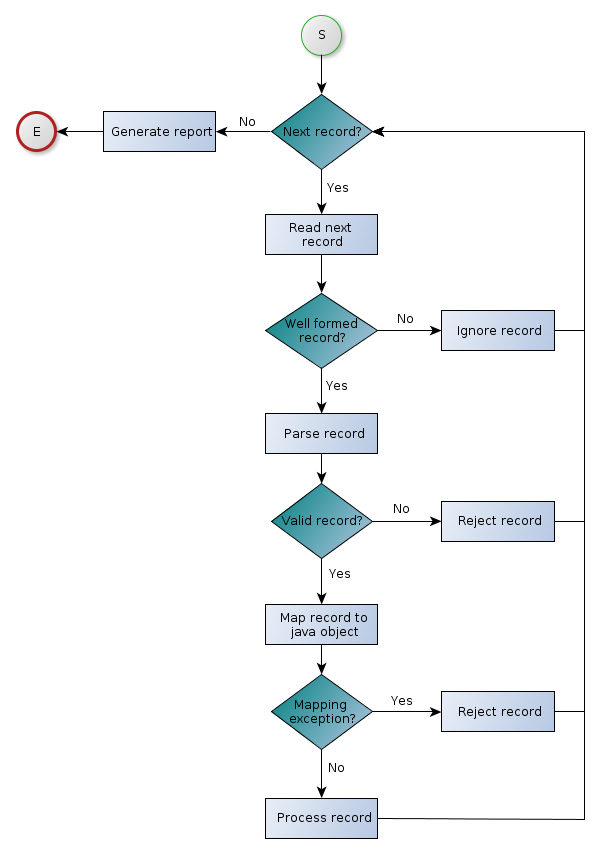
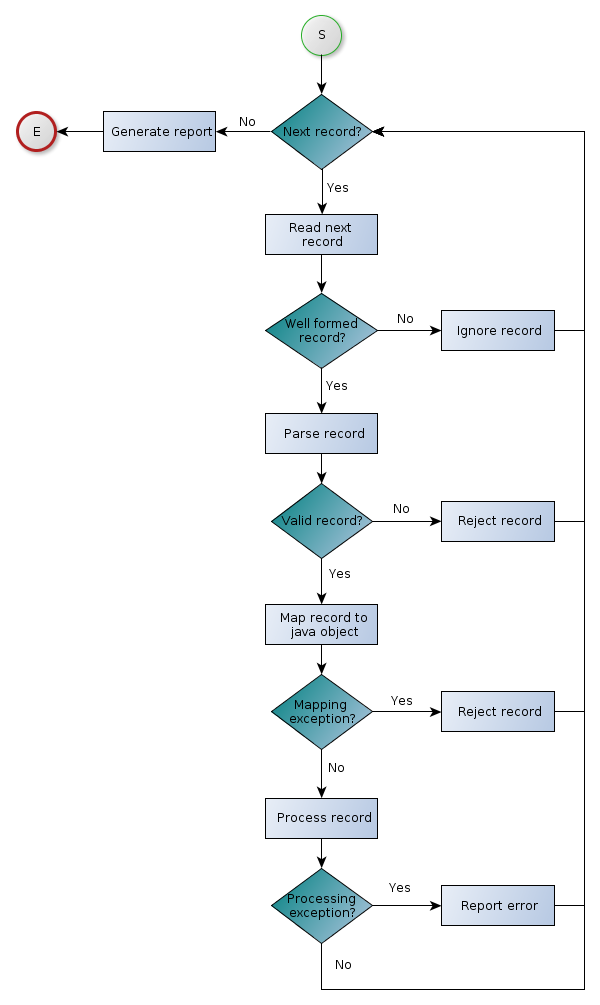
add a new log file for records processed with errors

diff --git a/src/site/html/documentation/architecture.html b/src/site/html/documentation/architecture.html
@@ -121,7 +121,7 @@
                 <h2 id="2" class="section">2. Main components</h2>
 
                 <p>The next figure illustrates the main CB4J components and gives an overview of the framework architecture:</p>
-                <p align="center"><img src="../resources/img/architecture.jpg"/></p>
+                <p align="center"><img src="../resources/img/architecture.png"/></p>
 
                 <p>The main CB4J components are the following :</p>
                 <ul>
@@ -213,7 +213,7 @@
                         <td class="center-td"><i class="icon-ok-circle"></i></td>
                     </tr>
                     <tr>
-                        <td>Generate log files for ignored/rejected records</td>
+                        <td>Generate log files for ignored/rejected/error records</td>
                         <td></td>
                         <td class="center-td"><i class="icon-ok-circle"></i></td>
                     </tr>
@@ -232,8 +232,8 @@
                     <li>The record parser checks the record for well-formedness : If the record is not well formed, then it is ignored and the engine moves to the next one. If the record is well formed, then it is passed to the next step to be parsed</li>
                     <li>The record parser parses the current record to split it into fields ordered by index and containing raw data</li>
                     <li>The record validator applies validation rules for each field. If a validation rule is violated for one field, then the record is rejected. If all fields are valid, then the parsed record is passed to the next step to be mapped to a Java object</li>
-                    <li>At this point, the record mapper is supplied with a parsed record containing raw data that have passed the declared validation rules. The parsed record is mapped to the declared Java object type. CB4J considers mapping exception as errors that should not pass the processing step. Hence, the engine rejects records that cannot be mapped to objects with typed fields. This is a design choice to minimize unexpected errors during record processing. <p><span class="label label-info">NB</span> : In a well designed batch, the record mapper should not have any problem in converting string values to typed values if all data is validated correctly at validation step.</p> </li>
-                    <li>Finally, the business logic is executed by the record processor. At this point, the record processor is supplied with a Java object populated with validated and typed data.</li>
+                    <li>At this point, the record mapper is supplied with a parsed record containing raw data that have passed the declared validation rules. The parsed record is mapped to the declared Java object type. CB4J considers mapping exception as errors that should not pass the processing step. Hence, the engine rejects records that cannot be mapped to objects with typed fields. This is a design choice to minimize unexpected errors during record processing.</li>
+                    <li>Finally, the business logic is executed by the record processor. At this point, the record processor is supplied with a Java object populated with validated and typed data. If an exception occurs during record processing, the error is reported. Otherwise, the engine moves to the next record.</li>
                 </ol>
 
             </div>

diff --git a/src/site/html/tutorials/helloworld.html b/src/site/html/tutorials/helloworld.html
@@ -216,11 +216,14 @@ batchRunner.run();
                 <p>If everything is ok, you should see the something like the following output in the console :</p>
 
 <pre>
-[CB4J : INFO] Configuration started at : Mon Sep 03 22:29:07 CEST 2012
+[CB4J : INFO] Configuration started at : Sat Dec 01 21:21:17 CET 2012
 [CB4J : WARNING] No encoding specified for input data, using system default encoding : UTF-8
 [CB4J : WARNING] No field delimiter specified, using default : ','
+[CB4J : WARNING] Trim whitespaces property not specified, default to true
 [CB4J : WARNING] No log file specified for ignored records, using default : /data/cb4j/cb4j-tutorials/src/main/resources/persons-ignored.log
 [CB4J : WARNING] No log file specified for rejected records, using default : /data/cb4j/cb4j-tutorials/src/main/resources/persons-rejected.log
+[CB4J : WARNING] No log file specified for error records, using default : /home/benas/dev/github/cb4j/cb4j-tutorials/src/main/resources/persons-errors.log
+[CB4J : INFO] CB4J JMX MBean registered successfully as: net.benas.cb4j.jmx:type=BatchMonitorMBean
 [CB4J : INFO] Configuration successful
 [CB4J : INFO] Configuration parameters details : {input.data.skipHeader=true, input.record.size=2, input.data.path=/data/cb4j/cb4j-tutorials/src/main/resources/persons.csv}
 [CB4J : INFO] Initializing batch
@@ -228,13 +231,14 @@ batchRunner.run();
 Hi Tommy! Your sequence number is 1
 [CB4J : INFO] finalizing batch
 [CB4J : INFO] CB4J report :
-[CB4J : INFO] Start time = Mon Sep 03 22:29:07 CEST 2012
-[CB4J : INFO] End time = Mon Sep 03 22:29:07 CEST 2012
+[CB4J : INFO] Start time = Sat Dec 01 21:21:17 CET 2012
+[CB4J : INFO] End time = Sat Dec 01 21:21:17 CET 2012
 [CB4J : INFO] Batch duration = 2ms
 [CB4J : INFO] Total input records = 3
 [CB4J : INFO] Total ignored records = 1
 [CB4J : INFO] Total rejected records = 1
 [CB4J : INFO] Total processed records = 1
+[CB4J : INFO] Total error records = 0
 [INFO] ------------------------------------------------------------------------
 [INFO] BUILD SUCCESS
 [INFO] ------------------------------------------------------------------------

diff --git a/src/site/html/documentation/userGuide.html b/src/site/html/documentation/userGuide.html
@@ -122,7 +122,7 @@
 
             <ul>
                 <li>With a <code class="prettyprint">java.util.Properties</code> object instance</li>
-                <li>With a standard Java (key,value or xml) properties file</li>
+                <li>With a standard Java (key,value pairs or xml) properties file</li>
             </ul>
 
             <p>Configuration parameters are defined in the following table :</p>
@@ -190,6 +190,12 @@
                     <td>Absolute path to the log file of rejected records</td>
                     <td>false</td>
                     <td>${input.data.path}-rejected.log. The extension of the input data file (if any) will be removed</td>
+                </tr>
+                <tr>
+                    <td>output.data.errors</td>
+                    <td>Absolute path to the log file of error records</td>
+                    <td>false</td>
+                    <td>${input.data.path}-errors.log. The extension of the input data file (if any) will be removed</td>
                 </tr>
                 <tr>
                     <td>output.data.abortOnFirstReject</td>

diff --git a/src/site/html/tutorials/customers.html b/src/site/html/tutorials/customers.html
@@ -166,7 +166,7 @@ Tiger,Raja,quis@pulvinar.com,19/01/2012,5283010032,2,P.O. Box 113 8377 Convallis
                 <p><code>mvn clean package exec:java -PrunCustomersTutorial</code></p>
 
                 <p>After the execution is finished, you should see the XML output for each customer record in the console.</p>
-                <p>You can modify input data with "monkey test" values and see the content of ignored/rejected records log files located in <code>cb4j/cb4j-tutorials/src/main/resources</code></p>
+                <p>You can modify input data with "monkey test" values and see the content of ignored/rejected/error records log files located in <code>cb4j/cb4j-tutorials/src/main/resources</code></p>
 
                 <p> <span class="label label-info">Info</span> : This tutorial uses <a href="http://xstream.codehaus.org/">xstream</a> to easily generate XML output of customer data.</p>
             </div>

diff --git a/cb4j-core/src/main/java/net/benas/cb4j/core/config/BatchConfiguration.java b/cb4j-core/src/main/java/net/benas/cb4j/core/config/BatchConfiguration.java
@@ -141,9 +141,9 @@ public class BatchConfiguration {
         configureRecordParser();
 
         /*
-         * Configure loggers for ignored/rejected records
+         * Configure loggers for ignored/rejected/error records
          */
-        configureIgnoredAndRejectedRecordsLoggers();
+        configureRecordsLoggers();
 
         /*
          * Configure batch reporter : if no custom reporter registered, use default implementation
@@ -188,15 +188,16 @@ public class BatchConfiguration {
     }
 
     /**
-     * Configure loggers for ignored/rejected records.
-     * @throws BatchConfigurationException thrown if loggers for ignored/rejected records are not correctly configured
+     * Configure loggers for ignored/rejected/errors records.
+     * @throws BatchConfigurationException thrown if loggers for ignored/rejected/errors records are not correctly configured
      */
-    private void configureIgnoredAndRejectedRecordsLoggers() throws BatchConfigurationException {
+    private void configureRecordsLoggers() throws BatchConfigurationException {
 
         String inputDataProperty = configurationProperties.getProperty(BatchConstants.INPUT_DATA_PATH);
 
         ReportFormatter reportFormatter = new ReportFormatter();
 
+        //ignored records logger
         String outputIgnored = configurationProperties.getProperty(BatchConstants.OUTPUT_DATA_IGNORED);
         if (outputIgnored == null || (outputIgnored.length() == 0)) {
             outputIgnored = BatchConfigurationUtil.removeExtension(inputDataProperty) + BatchConstants.DEFAULT_IGNORED_SUFFIX;
@@ -213,6 +214,7 @@ public class BatchConfiguration {
             throw new BatchConfigurationException(error);
         }
 
+        //rejected errors logger
         String outputRejected = configurationProperties.getProperty(BatchConstants.OUTPUT_DATA_REJECTED);
         if (outputRejected == null || (outputRejected.length() == 0)) {
             outputRejected = BatchConfigurationUtil.removeExtension(inputDataProperty) + BatchConstants.DEFAULT_REJECTED_SUFFIX;
@@ -228,6 +230,24 @@ public class BatchConfiguration {
             logger.severe(error);
             throw new BatchConfigurationException(error);
         }
+
+        //errors record logger
+        String outputErrors = configurationProperties.getProperty(BatchConstants.OUTPUT_DATA_ERRORS);
+        if (outputErrors == null || (outputErrors.length() == 0)) {
+            outputErrors = BatchConfigurationUtil.removeExtension(inputDataProperty) + BatchConstants.DEFAULT_ERRORS_SUFFIX;
+            logger.warning("No log file specified for error records, using default : " + outputErrors);
+        }
+        try {
+            FileHandler errorRecordsHandler = new FileHandler(outputErrors);
+            errorRecordsHandler.setFormatter(reportFormatter);
+            Logger errorRecordsReporter = Logger.getLogger(BatchConstants.LOGGER_CB4J_ERRORS);
+            errorRecordsReporter.addHandler(errorRecordsHandler);
+        } catch (IOException e) {
+            String error = "Unable to use file for error records : " + outputErrors;
+            logger.severe(error);
+            throw new BatchConfigurationException(error);
+        }
+
     }
 
     /**

diff --git a/cb4j-core/src/main/java/net/benas/cb4j/core/impl/DefaultBatchReporterImpl.java b/cb4j-core/src/main/java/net/benas/cb4j/core/impl/DefaultBatchReporterImpl.java
@@ -50,6 +50,8 @@ public class DefaultBatchReporterImpl implements BatchReporter {
 
     protected final Logger rejectedRecordsReporter = Logger.getLogger(BatchConstants.LOGGER_CB4J_REJECTED);
 
+    protected final Logger errorRecordsReporter = Logger.getLogger(BatchConstants.LOGGER_CB4J_ERRORS);
+
     /**
      * Total input records number.
      */
@@ -76,6 +78,11 @@ public class DefaultBatchReporterImpl implements BatchReporter {
     protected long processedRecordsNumber;
 
     /**
+     * Error records number.
+     */
+    protected long errorRecordsNumber;
+
+    /**
      * Batch execution start time.
      */
     protected long startTime;
@@ -94,6 +101,7 @@ public class DefaultBatchReporterImpl implements BatchReporter {
         rejectedRecordsNumber = 0;
         ignoredRecordsNumber = 0;
         InputRecordsNumber = 0;
+        errorRecordsNumber = 0;
         ignoredRecordsReporter.setUseParentHandlers(false);
         rejectedRecordsReporter.setUseParentHandlers(false);
     }
@@ -110,6 +118,7 @@ public class DefaultBatchReporterImpl implements BatchReporter {
         logger.info("Total ignored records = " + ignoredRecordsNumber);
         logger.info("Total rejected records = " + rejectedRecordsNumber);
         logger.info("Total processed records = " + processedRecordsNumber);
+        logger.info("Total error records = " + errorRecordsNumber);
     }
 
     /**
@@ -137,6 +146,20 @@ public class DefaultBatchReporterImpl implements BatchReporter {
                 .append(" [")
                 .append(record)
                 .append("] is ignored, Error : ")
+                .append(error).toString());
+    }
+
+    /**
+     * {@inheritDoc}
+     */
+    public void reportErrorRecord(Record record, String error) {
+        errorRecordsNumber++;
+        StringBuilder stringBuilder = new StringBuilder();
+        errorRecordsReporter.info(stringBuilder.append("Record #")
+                .append(record.getNumber())
+                .append(" [")
+                .append(record.getContentAsString())
+                .append("] processed with error, ")
                 .append(error).toString());
     }
 
@@ -196,6 +219,10 @@ public class DefaultBatchReporterImpl implements BatchReporter {
 
     public long getProcessedRecordsNumber() {
         return processedRecordsNumber;
+    }
+
+    public long getErrorRecordsNumber() {
+        return errorRecordsNumber;
     }
 
     public long getStartTime() {

diff --git a/cb4j-core/src/main/java/net/benas/cb4j/core/impl/DefaultBatchEngineImpl.java b/cb4j-core/src/main/java/net/benas/cb4j/core/impl/DefaultBatchEngineImpl.java
@@ -130,14 +130,29 @@ public class DefaultBatchEngineImpl implements BatchEngine {
                 continue;
             }
 
-            //process record
+            //pre process record
             try {
                 recordProcessor.preProcessRecord(typedRecord);
+            } catch (Exception e) {
+                batchReporter.reportErrorRecord(currentParsedRecord, "an exception  occurred during record pre-processing, root cause = " + e.getMessage());
+                continue;
+            }
+
+            //process record
+            try {
                 recordProcessor.processRecord(typedRecord);
+            } catch (Exception e) {
+                batchReporter.reportErrorRecord(currentParsedRecord, "an exception  occurred during record processing, root cause = " + e.getMessage());
+                continue;
+            }
+
+            //post process record
+            try {
                 recordProcessor.postProcessRecord(typedRecord);
             } catch (Exception e) {
-                logger.severe("Record No " + currentRecordNumber + " processing exception, root cause = " + e.getMessage());
+                batchReporter.reportErrorRecord(currentParsedRecord, "an exception  occurred during record post-processing, root cause = " + e.getMessage());
             }
+
         }
 
         //close record reader

diff --git a/cb4j-core/src/main/java/net/benas/cb4j/core/api/BatchReporter.java b/cb4j-core/src/main/java/net/benas/cb4j/core/api/BatchReporter.java
@@ -28,7 +28,7 @@ import net.benas.cb4j.core.model.Record;
 import net.benas.cb4j.core.util.BatchStatus;
 
 /**
- * Utility service used to ignore/reject records and generate batch report.
+ * Utility service used to report ignored/rejected/error records and generate batch report.
  *
  * @author benas (md.benhassine@gmail.com)
  */
@@ -48,6 +48,13 @@ public interface BatchReporter {
      * @param error the error that causes the record to be ignored
      */
     void ignoreRecord(String record, long recordNumber, String error);
+
+    /**
+     * report processing error.
+     * @param record the record processed with error
+     * @param error the cause error
+     */
+    void reportErrorRecord(Record record, String error);
 
     /**
      * generate a batch execution report.
@@ -119,6 +126,12 @@ public interface BatchReporter {
      * @return processed records number
      */
     public long getProcessedRecordsNumber();
+
+    /**
+     * get error records number.
+     * @return error records number
+     */
+    public long getErrorRecordsNumber();
 
     /**
      * get the batch execution start time.

diff --git a/cb4j-core/src/main/java/net/benas/cb4j/core/util/BatchConstants.java b/cb4j-core/src/main/java/net/benas/cb4j/core/util/BatchConstants.java
@@ -52,13 +52,18 @@ public class BatchConstants {
 
     public static final String OUTPUT_DATA_REJECTED = "output.data.rejected";
 
+    public static final String OUTPUT_DATA_ERRORS = "output.data.errors";
+
     public static final String OUTPUT_DATA_ABORT_ON_FIRST_REJECT = "output.data.abortOnFirstReject";
+
     /*
      * Default values for optional parameters
      */
     public static final String DEFAULT_REJECTED_SUFFIX = "-rejected.log";
 
     public static final String DEFAULT_IGNORED_SUFFIX = "-ignored.log";
+
+    public static final String DEFAULT_ERRORS_SUFFIX = "-errors.log";
 
     public static final String DEFAULT_FIELD_DELIMITER = ",";
 
@@ -79,4 +84,5 @@ public class BatchConstants {
 
     public static final String LOGGER_CB4J_REJECTED = "cb4j-rejected";
 
+    public static final String LOGGER_CB4J_ERRORS = "cb4j-errors";
 }

diff --git a/cb4j-core/src/main/java/net/benas/cb4j/core/jmx/BatchMonitor.java b/cb4j-core/src/main/java/net/benas/cb4j/core/jmx/BatchMonitor.java
@@ -74,6 +74,20 @@ public class BatchMonitor implements BatchMonitorMBean {
     /**
      * {@inheritDoc}
      */
+    public long getErrorRecordsNumber() {
+        return batchReporter.getErrorRecordsNumber();
+    }
+
+    /**
+     * {@inheritDoc}
+     */
+    public long getProcessedRecordsNumber() {
+        return batchReporter.getProcessedRecordsNumber();
+    }
+
+    /**
+     * {@inheritDoc}
+     */
     public String getStartTime() {
         return new Date(batchReporter.getStartTime()).toString();
     }

diff --git a/cb4j-core/src/main/java/net/benas/cb4j/core/jmx/BatchMonitorMBean.java b/cb4j-core/src/main/java/net/benas/cb4j/core/jmx/BatchMonitorMBean.java
@@ -55,6 +55,18 @@ public interface BatchMonitorMBean {
     long getRejectedRecordsNumber();
 
     /**
+     * Get error records number.
+     * @return error records number
+     */
+    public long getErrorRecordsNumber();
+
+    /**
+     * Get processed records number.
+     * @return processed records number
+     */
+    public long getProcessedRecordsNumber();
+
+    /**
      * Get batch execution start time.
      * @return batch execution start time
      */
